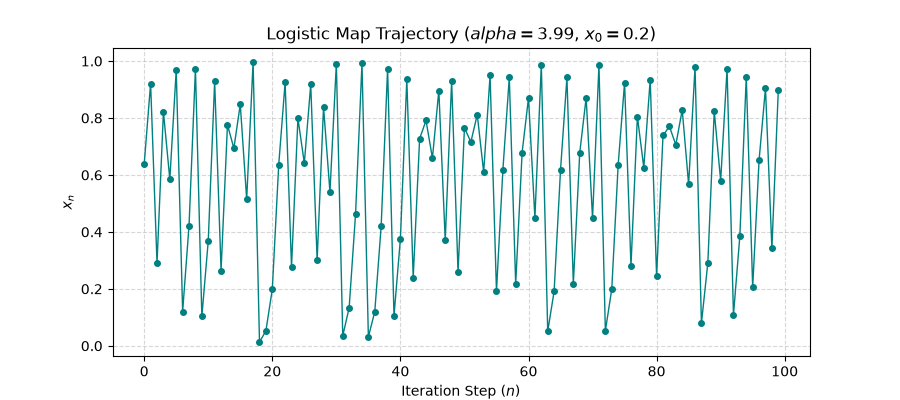
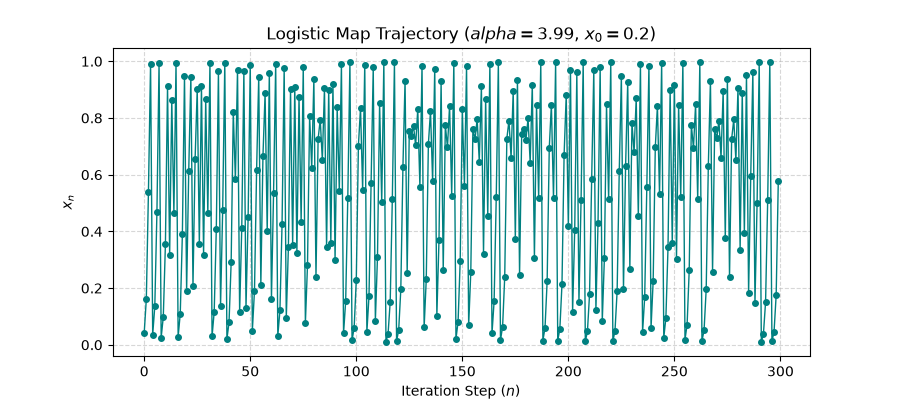
Updated discrete_pinn file

diff --git a/discrete_pinn/train_model.py b/discrete_pinn/train_model.py
@@ -12,75 +12,6 @@ from physics_loss import LossCalc
 from logistic_map import LogisticMap
 
 
-def make_data_splits(x_trajectory, train_ratio=0.6, validation_ratio=0.2):
-    """Convert a trajectory into chronological train, validation, and test pairs."""
-    x_current = torch.tensor(x_trajectory[:-1], dtype=torch.float32).unsqueeze(1)
-    x_next = torch.tensor(x_trajectory[1:], dtype=torch.float32).unsqueeze(1)
-
-    n_samples = len(x_current)
-    train_end = int(train_ratio * n_samples)
-    validation_end = int((train_ratio + validation_ratio) * n_samples)
-
-
-    return (
-        (x_current[:train_end], x_next[:train_end]),
-        (x_current[train_end:validation_end], x_next[train_end:validation_end]),
-        (x_current[validation_end:], x_next[validation_end:]),
-    )
-
-def convert_data2pd(excel_filename="output_dir/dataset_splits.xlsx"):
-    """
-    Converts PyTorch data splits into Pandas DataFrames and saves them
-    into a multi-sheet Excel file.
-    """
-    logistic_map = LogisticMap(alpha=2)
-    x_trajectory = logistic_map.run_trajectory(initial_val=0.5, transient_state=1000, steady_state=200)
-    train_data, validation_data, test_data = make_data_splits(x_trajectory)
-    splits = {
-        "Train": train_data,
-        "Validation": validation_data,
-        "Test": test_data
-    }
-    
-    dfs = {}
-    combined_rows = []
-    
-    global_idx = 0
-    for split_name, (x_curr, x_next) in splits.items():
-        curr_arr = x_curr.squeeze().detach().cpu().numpy()
-        next_arr = x_next.squeeze().detach().cpu().numpy()
-        
-        df_split = pd.DataFrame({
-            "step_index": np.arange(len(curr_arr)),
-            "x_n": curr_arr,
-            "x_next_true": next_arr
-        })
-        dfs[split_name] = df_split
-        
-        for local_idx, (xn, xnext) in enumerate(zip(curr_arr, next_arr)):
-            combined_rows.append({
-                "global_index": global_idx,
-                "split": split_name,
-                "local_index": local_idx,
-                "x_n": xn,
-                "x_next_true": xnext
-            })
-            global_idx += 1
-
-    df_all = pd.DataFrame(combined_rows)
-    dfs["All"] = df_all
-
-    # Path resolution and auto-folder creation
-    excel_path = Path(excel_filename)
-    excel_path.parent.mkdir(parents=True, exist_ok=True)
-    
-    with pd.ExcelWriter(excel_path, engine="openpyxl") as writer:
-        df_all.to_excel(writer, sheet_name="All_Data", index=False)
-        for name in ("Train", "Validation", "Test"):
-            dfs[name].to_excel(writer, sheet_name=name, index=False)
-
-    print(f"Data successfully saved to {excel_path.resolve()}")
-    return dfs
 
 def evaluate(model, criterion, data):
     x_current, x_next = data
@@ -142,19 +73,15 @@ def plot_predictions(model, datasets, save_filename="output_dir/pinn_predictions
 
 def train():
     # Setup data
-    logistic_map = LogisticMap(alpha=2)
+    logistic_map = LogisticMap(alpha=3.99)
     x_trajectory = logistic_map.run_trajectory(initial_val=0.5, transient_state=1000, steady_state=200)
-    train_data, validation_data, test_data = make_data_splits(x_trajectory)
+    train_data, validation_data, test_data = logistic_map.make_data_splits(x_trajectory)
     x_curr, x_next = train_data
-    x_curr_init = x_curr[0]
 
     # Instantiate Model, Loss, and Optimizer
-    N_INPUT = 1
-    N_HIDDEN = 16
-    N_OUTPUT = 1
-    R_INIT = 1.99
+   
 
-    model = PINN(N_INPUT, N_HIDDEN, N_OUTPUT, R_INIT)
+    model = PINN(N_INPUT =1, N_HIDDEN= 8, N_OUTPUT=1, R_INIT = 1.99)
     criterion = LossCalc()
     optimizer = optim.Adam(model.parameters(), lr=1e-2)
     
@@ -169,7 +96,7 @@ def train():
         x_next_pred = model(x_curr)
         
         # Compute combined loss
-        total_loss = criterion(x_curr_init, x_next_pred, x_next, model.r)
+        total_loss = criterion(x_curr, x_next_pred, x_next, model.r)
         
         # Backpropagation
         total_loss.backward()
@@ -178,11 +105,10 @@ def train():
         if epoch % 100 == 0:
             pbar.set_postfix({
                 "Loss": f"{total_loss.item():.5f}",
-                "Val loss": f"{evaluate(model, criterion, validation_data):.5f}",
                 "Discovered r": f"{model.r.item():.4f}"
             })
 
-        x_curr_init = x_next_pred[0]
+        
 
     test_loss = evaluate(model, criterion, test_data)
     plot_predictions(model, (train_data, validation_data, test_data))

diff --git a/discrete_pinn/logistic_map.py b/discrete_pinn/logistic_map.py
@@ -1,4 +1,5 @@
 import numpy as np
+import torch
 import matplotlib.pyplot as plt
 from pathlib import Path
 
@@ -50,11 +51,11 @@ class LogisticMap:
         plt.grid(True, linestyle="--", alpha=0.5)
         plt.savefig(save_filename)
 
-    @staticmethod
-    def plot_time_series(alpha=3.99, x0=0.2, steps=100):
+    
+    def plot_time_series(self, x0=0.2, steps=100):
         """Plots the time series x_n vs n for a single alpha."""
-        model = LogisticMap(alpha=alpha)
-        vals = model.run_map(initial_val=x0, transient_state=0, steady_state=steps)
+        model = LogisticMap(alpha=self.alpha)
+        vals = model.run_trajectory(initial_val=x0, transient_state=500, steady_state=steps)
 
 
         output_dir = Path("output_dir")
@@ -64,10 +65,75 @@ class LogisticMap:
         plt.figure(figsize=(9, 4))
         plt.plot(vals, 'o-', markersize=4, linewidth=1, color='teal')
         plt.xlabel("Iteration Step ($n$)")
-        plt.title(f"Logistic Map Trajectory ($\alpha = {alpha}$, $x_0 = {x0}$)")
+        plt.title(f"Logistic Map Trajectory ($alpha = {self.alpha}$, $x_0 = {x0}$)")
         plt.ylabel(r"$x_n$")
         plt.grid(True, linestyle="--", alpha=0.5)
         plt.savefig(save_filename)
 
 
-                
+    def make_data_splits(self,x_trajectory, train_ratio=0.6, validation_ratio=0.2):
+
+        """Convert a trajectory into chronological train, validation, and test pairs."""
+
+        logistic_map = LogisticMap(self.alpha)
+        x_trajectory = logistic_map.run_trajectory(initial_val=0.5, transient_state=1000, steady_state=200)
+
+
+        x_current = torch.tensor(x_trajectory[:-1], dtype=torch.float32).unsqueeze(1)
+        x_next = torch.tensor(x_trajectory[1:], dtype=torch.float32).unsqueeze(1)
+
+        n_samples = len(x_current)
+        train_end = int(train_ratio * n_samples)
+        validation_end = int((train_ratio + validation_ratio) * n_samples)
+
+
+        return (
+            (x_current[:train_end], x_next[:train_end]),
+            (x_current[train_end:validation_end], x_next[train_end:validation_end]),
+            (x_current[validation_end:], x_next[validation_end:]),
+        )
+
+    def convert_data2pd(self,excel_filename="output_dir/dataset_splits.xlsx"):
+        """
+        Converts PyTorch data splits into a hierarchical two-level Excel format:
+        Top header:    [      Train      ] [   Validation    ] [      Test       ]
+        Sub header:    [  x_n  |  x_n+1  ] [  x_n  |  x_n+1  ] [  x_n  |  x_n+1  ]
+        """
+        logistic_map = LogisticMap(self.alpha)
+        x_trajectory = logistic_map.run_trajectory(initial_val=0.5, transient_state=1000, steady_state=200)
+
+
+        train_data, validation_data, test_data = LogisticMap.make_data_splits(x_trajectory)
+
+        splits = {
+            "Train": train_data,
+            "Validation": validation_data,
+            "Test": test_data
+        }
+
+        split_dfs = {}
+        for name, (x_curr, x_next) in splits.items():
+            curr_arr = x_curr.squeeze().detach().cpu().numpy()
+            next_arr = x_next.squeeze().detach().cpu().numpy()
+            
+            # Build individual 2-column DataFrame per split
+            split_dfs[name] = pd.DataFrame({
+                "x_n": curr_arr,
+                "x_n+1": next_arr
+            })
+
+        # Concatenate side-by-side using keys to form 2-level column headers
+        df_hierarchical = pd.concat(split_dfs, axis=1)
+
+        # Path resolution and auto-folder creation
+        excel_path = Path(excel_filename)
+        excel_path.parent.mkdir(parents=True, exist_ok=True)
+
+        # Write to Excel (index=True shows step row numbers 0, 1, 2, ...)
+        with pd.ExcelWriter(excel_path, engine="openpyxl") as writer:
+            df_hierarchical.to_excel(writer, sheet_name="Data_Splits", index=True)
+
+        print(f"Hierarchical data successfully saved to {excel_path.resolve()}")
+        return df_hierarchical
+
+                    

diff --git a/discrete_pinn/physics_loss.py b/discrete_pinn/physics_loss.py
@@ -6,7 +6,7 @@ class LossCalc(nn.Module):
         super().__init__()
         self.mse = nn.MSELoss()
 
-    def forward(self, x_current_init: torch.Tensor, x_next_pred: torch.Tensor, x_next_true: torch.Tensor, r_param: torch.Tensor):
+    def forward(self, x_current: torch.Tensor, x_next_pred: torch.Tensor, x_next_true: torch.Tensor, r_param: torch.Tensor):
         
         # 1. Supervised Data Loss: Fit observed transitions
         data_loss = self.mse(x_next_pred, x_next_true)
@@ -14,7 +14,7 @@ class LossCalc(nn.Module):
         # 2. Discrete Physics Residual: Algebraic recurrence relation
         # Physcis loss takes x_next_pred and x_current_pred, it should uses prediction data entirely
 
-        physics_residual = x_next_pred - r_param * x_current_init * (1.0 - x_current_init)
+        physics_residual = x_next_pred - r_param * x_current* (1.0 - x_current)
         physics_loss = torch.mean(physics_residual ** 2)
         
         total_loss = data_loss +  physics_loss

diff --git a/discrete_pinn/main.py b/discrete_pinn/main.py
@@ -1,10 +1,11 @@
-from train_model import train
-from train_model import convert_data2pd
 
+from logistic_map import LogisticMap
+from train_model import train
 
 def main ():
 
-    data2panda = convert_data2pd()
+    train()
+    
     return 0
 
 
